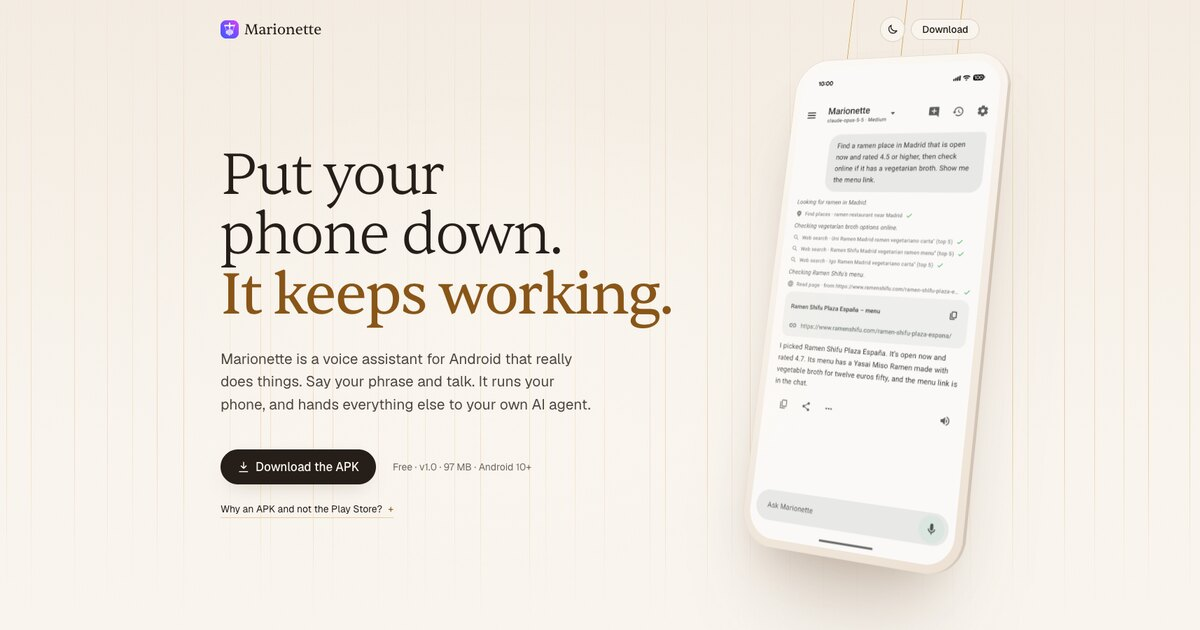
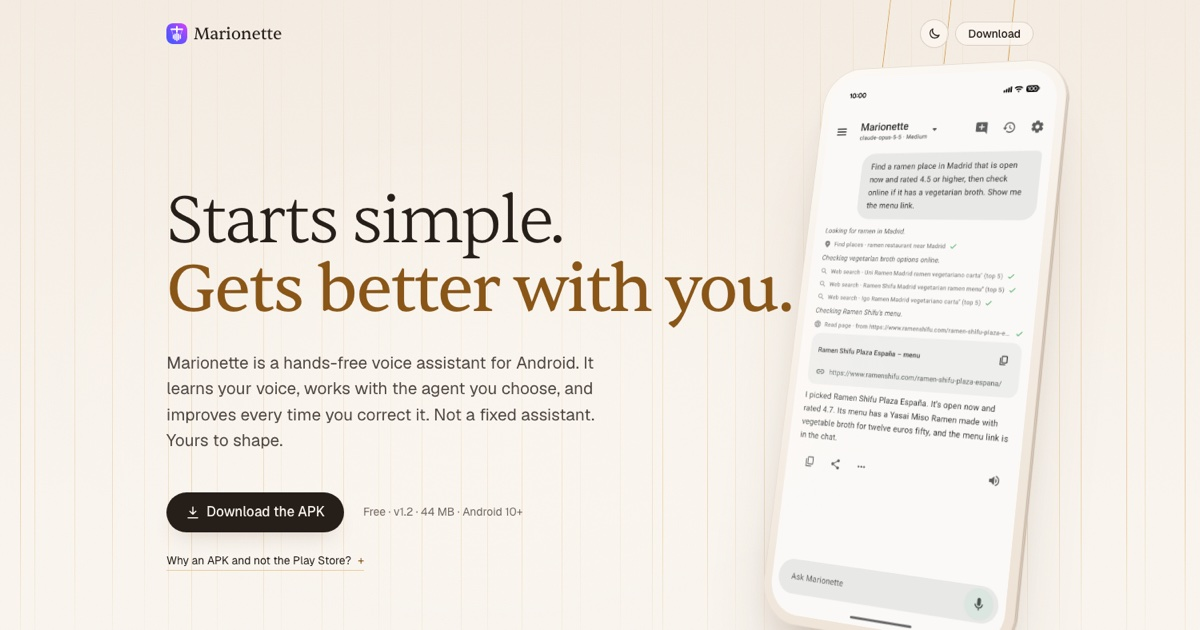
chore(release): 1.2.0

diff --git a/site/index.html b/site/index.html
@@ -4,20 +4,20 @@
 <meta charset="utf-8">
 <meta name="viewport" content="width=device-width, initial-scale=1">
 <meta name="color-scheme" content="light dark">
-<title>Marionette: a hands-free voice assistant for Android</title>
-<meta name="description" content="A free, open-source, hands-free voice assistant for Android. Say your own wake phrase and talk. It runs your phone, and hands everything else to your own AI agent or the AI model you choose.">
+<title>Marionette: the Android voice assistant that gets better with you</title>
+<meta name="description" content="A free, open-source, hands-free voice assistant for Android. It learns your voice, works with the agent you choose, and gets better as you train it. Not a fixed assistant.">
 <meta name="theme-color" content="#faf6f0">
 <link rel="canonical" href="https://marionette.ndrs.es/">
 <meta name="google-site-verification" content="xGcxIlyzYVDsrvQq4sVZuJMY3wICR12JwhaztjCRH0U">
 <meta property="og:type" content="website">
 <meta property="og:site_name" content="Marionette">
-<meta property="og:title" content="Marionette: put your phone down, it keeps working">
-<meta property="og:description" content="A hands-free Android voice assistant that runs your phone and hands everything else to your own AI agent.">
+<meta property="og:title" content="Marionette: the voice assistant that gets better with you">
+<meta property="og:description" content="A hands-free Android voice assistant. Train it with your voice, bring your own agent, and shape it over time.">
 <meta property="og:url" content="https://marionette.ndrs.es/">
 <meta property="og:image" content="https://marionette.ndrs.es/og.jpg">
 <meta property="og:image:width" content="1200">
 <meta property="og:image:height" content="630">
-<meta property="og:image:alt" content="Marionette website: Put your phone down. It keeps working. Next to a phone showing a chat with the assistant.">
+<meta property="og:image:alt" content="Marionette website: Starts simple. Gets better with you. Next to a phone showing a chat with the assistant.">
 <meta property="og:locale" content="en_US">
 <meta name="twitter:card" content="summary_large_image">
 <link rel="icon" href="icon.svg" type="image/svg+xml">
@@ -50,11 +50,11 @@
     "@context": "https://schema.org",
     "@type": "MobileApplication",
     "name": "Marionette",
-    "description": "A free, open-source, hands-free voice assistant for Android. A custom wake phrase starts it, and your own AI agent or AI model operates the phone through app tools.",
+    "description": "A free, open-source, hands-free voice assistant for Android. A wake phrase trained with your own voice starts it, and the agent or language model you choose operates the phone through device tools.",
     "url": "https://marionette.ndrs.es/",
     "applicationCategory": "UtilitiesApplication",
     "operatingSystem": "Android 10 or newer",
-    "softwareVersion": "1.1.0",
+    "softwareVersion": "1.2.0",
     "downloadUrl": "https://github.com/zlotny/marionette/releases/latest/download/marionette.apk",
     "screenshot": "https://marionette.ndrs.es/img/app-light.webp",
     "image": "https://marionette.ndrs.es/og.jpg",
@@ -98,14 +98,14 @@
 
     <div class="page">
       <div class="hero__copy">
-        <h1><span class="line enter" style="--d: 60ms">Put your phone down.</span> <b class="line enter" style="--d: 150ms">It keeps working.</b></h1>
-        <p class="hero__lede enter" style="--d: 240ms">Marionette is a voice assistant for Android that really does things. Say your phrase and talk. It runs your phone, and hands everything else to your own AI agent.</p>
+        <h1><span class="line enter" style="--d: 60ms">Starts simple.</span> <b class="line enter" style="--d: 150ms">Gets better with you.</b></h1>
+        <p class="hero__lede enter" style="--d: 240ms">Marionette is a hands-free voice assistant for Android. It learns your voice, works with the agent you choose, and improves every time you correct it. Not a fixed assistant. Yours to shape.</p>
         <div class="hero__cta enter" style="--d: 320ms">
           <a class="btn btn-fill" href="https://github.com/zlotny/marionette/releases/latest/download/marionette.apk">
             <svg viewBox="0 0 24 24" fill="none" stroke="currentColor" stroke-width="2" stroke-linecap="round" stroke-linejoin="round"><path d="M12 3v12m0 0-5-5m5 5 5-5M4 21h16"/></svg>
             Download the APK
           </a>
-          <span class="hero__note">Free · v1.1 · 97 MB · Android 10+</span>
+          <span class="hero__note">Free · v1.2 · 44 MB · Android 10+</span>
         </div>
         <details class="why enter" style="--d: 390ms">
           <summary>Why an APK and not the Play Store?</summary>
@@ -118,8 +118,8 @@
   <section class="map" aria-labelledby="map-title">
     <div class="page">
       <div class="map__head">
-        <h2 id="map-title">Your voice, your phone, <b>your agent.</b></h2>
-        <p>Most assistants stop at the edge of the phone. Marionette has two hands. The phone does what a phone can do. Your agent does the rest, on your accounts, your home and your servers.</p>
+        <h2 id="map-title">Marionette is the hands. <b>Your agent is the brain.</b></h2>
+        <p>Bring the agent you like. Marionette gives it your voice and your phone. Your agent does the thinking, and it can keep learning: new skills, your habits, your preferences.</p>
       </div>
 
       <div class="diagram">
@@ -133,30 +133,30 @@
         <div class="node node--phone">
           <span class="where">on your phone</span>
           <h3>Marionette</h3>
-          <p>Runs real Android actions. Screen off, phone in your pocket.</p>
+          <p>Real Android actions. Screen off, phone in your pocket.</p>
           <ul>
-            <li>Navigation and places, with opening hours</li>
+            <li>Calendar, timers and alarms</li>
             <li>Messages and calls, confirmed first</li>
-            <li>Notifications: read, reply, dismiss</li>
-            <li>Music in any app</li>
-            <li>Calendar, timers, alarms, contacts</li>
+            <li>Navigation and places</li>
+            <li>Music and notifications</li>
+            <li>Photos, and screen control as a last resort</li>
           </ul>
         </div>
         <span class="wire wire--back" aria-hidden="true"></span>
         <div class="node node--agent">
           <span class="where">wherever it runs</span>
           <h3>Your agent</h3>
-          <p>Connect an <a class="textlink" href="https://github.com/openclaw/openclaw">OpenClaw</a> agent and give it your voice.</p>
+          <p>A self-hosted agent such as <a class="textlink" href="https://github.com/openclaw/openclaw">OpenClaw</a>, or a model from the provider you like.</p>
           <ul>
             <li>Research, with a short spoken answer</li>
-            <li>Email and documents</li>
-            <li>Lights, heating, doors</li>
-            <li>Servers and long tasks</li>
-            <li>Anything you teach it</li>
+            <li>Email, home and servers</li>
+            <li>New skills you add over time</li>
+            <li>Remembers what you prefer</li>
+            <li>Runs on your own server</li>
           </ul>
         </div>
       </div>
-      <p class="map__legend">The gold threads are the only way out. The wake phrase is detected on the phone, and nothing is sent until you speak to it.</p>
+      <p class="map__legend">The gold threads are the only way out. The wake phrase is detected on the phone, and nothing goes out until you speak to it.</p>
     </div>
   </section>
 
@@ -176,26 +176,25 @@
 
   <section class="yours" aria-labelledby="yours-title">
     <div class="page">
-      <h2 id="yours-title">Only what you allow. <b>Only what you ask for.</b></h2>
-      <p class="yours__lede">Everything is a switch you control. Give Marionette as little or as much as you like, and change your mind at any time.</p>
+      <h2 id="yours-title">Not a fixed assistant. <b>One that grows with you.</b></h2>
+      <p class="yours__lede">Most assistants ship as they are and stay that way. Marionette starts simple and improves with each small correction you make.</p>
       <div class="yours__grid">
         <div>
-          <h3>What the phone exposes</h3>
+          <h3>It learns your voice</h3>
           <ul>
-            <li>Turn off any tool. If calls are off, it can’t call.</li>
-            <li>Grant each permission on its own: contacts, calendar, notifications, location.</li>
-            <li>Choose what needs a spoken yes before it happens.</li>
-            <li>Screen control stays off until you turn it on, and you can block apps from it.</li>
-            <li>Choose what context it shares, like location or what’s playing.</li>
+            <li>Train your wake phrase with your own voice, close up and across the room.</li>
+            <li>A false wake? Mark it with one tap so it stops happening.</li>
+            <li>Read a short text in your normal voice. It learns what is not the wake phrase.</li>
+            <li>Review what woke it, and keep it sharp.</li>
           </ul>
         </div>
         <div>
-          <h3>What your agent does</h3>
+          <h3>Your agent learns too</h3>
           <ul>
-            <li>Your agent runs where you put it, with the tools you give it.</li>
-            <li>Connect your email, your home, your servers, or none of them.</li>
+            <li>Bring the agent you like, and change it whenever you want.</li>
+            <li>A self-hosted agent learns new skills and remembers your preferences, on your own server.</li>
             <li>Pick the model and how hard it thinks, per chat.</li>
-            <li>With a plain AI model, edit its instructions in plain words.</li>
+            <li>With a plain model, edit its instructions in plain words.</li>
           </ul>
         </div>
       </div>
@@ -206,16 +205,17 @@
     <div class="page">
       <h2 id="setup-title">A few minutes to set up. <b>Then just talk.</b></h2>
       <ol class="steps">
-        <li><span class="n">1</span><h3>Install the app</h3><p>From GitHub. No store, no account, no server to run.</p></li>
-        <li><span class="n">2</span><h3>Choose its brain</h3><p>Connect your OpenClaw agent, or paste a key for any AI model. The setup checks that it works before you leave.</p></li>
-        <li><span class="n">3</span><h3>Teach it your phrase</h3><p>Any words, any language. Say it a few times.</p></li>
+        <li><span class="n">1</span><h3>Install the app</h3><p>From GitHub. No store, no account, no Marionette server.</p></li>
+        <li><span class="n">2</span><h3>Bring your agent</h3><p>Connect your OpenClaw agent, or paste a key for the model you like. The setup checks that it works before you leave.</p></li>
+        <li><span class="n">3</span><h3>Teach it your voice</h3><p>Any words, any language. Say your phrase a few times. It gets better from there.</p></li>
       </ol>
 
       <div class="trust">
-        <h3>Yours, and only yours.</h3>
+        <h3>Open. Private. Yours.</h3>
         <div>
-          <p>Marionette talks directly to the model you choose. There is no middleman and no subscription. Your keys stay encrypted on your phone.</p>
-          <p>The code is public domain under the <a class="textlink" href="https://github.com/zlotny/marionette/blob/main/LICENSE">Unlicense</a>. Read it, fork it, ship it.</p>
+          <p>The wake phrase runs on your phone. Marionette talks directly to the agent you choose, with no middleman and no subscription. Your keys stay encrypted on your phone.</p>
+          <p>Every tool, permission and confirmation is a switch. Screen control stays off until you turn it on.</p>
+          <p>The code is public domain under the <a class="textlink" href="https://github.com/zlotny/marionette/blob/main/LICENSE">Unlicense</a>. Read it, fork it, change it.</p>
           <p class="providers">Works with OpenClaw, Anthropic, OpenAI, Google Gemini, OpenRouter, and any OpenAI-compatible API.</p>
         </div>
       </div>
@@ -226,7 +226,7 @@
 <footer class="close" id="download">
   <div class="strands" aria-hidden="true"></div>
   <div class="page">
-    <h2>Less screen.<br><b>More day.</b></h2>
+    <h2>Your assistant.<br><b>Your way.</b></h2>
     <div class="close__cta">
       <a class="btn btn-fill" href="https://github.com/zlotny/marionette/releases/latest/download/marionette.apk">
         <svg viewBox="0 0 24 24" fill="none" stroke="currentColor" stroke-width="2" stroke-linecap="round" stroke-linejoin="round"><path d="M12 3v12m0 0-5-5m5 5 5-5M4 21h16"/></svg>
@@ -235,7 +235,7 @@
       <a class="btn btn-line" href="https://github.com/zlotny/marionette">Source on GitHub</a>
     </div>
     <div class="close__foot">
-      <span>Marionette 1.1.0 · Public domain</span>
+      <span>Marionette 1.2.0 · Public domain</span>
       <nav class="close__links" aria-label="Project">
         <a class="textlink" href="https://github.com/zlotny/marionette/releases">Releases</a>
         <a class="textlink" href="https://github.com/zlotny/marionette">Source</a>

diff --git a/README.md b/README.md
@@ -3,8 +3,8 @@
 <h1 align="center">Marionette</h1>
 
 <p align="center">
-  An open-source, hands-free voice assistant for Android.<br>
-  Say your own wake phrase and talk. It runs your phone, and hands everything else to your own AI agent.
+  <b>Starts simple. Gets better with you.</b><br>
+  A hands-free voice assistant for Android that learns your voice, works with the agent you choose, and improves every time you correct it.
 </p>
 
 <p align="center">
@@ -20,16 +20,28 @@
   </picture>
 </p>
 
-## Features
+Most assistants ship as they are and stay that way. Marionette is not a fixed assistant. It starts simple and evolves with you.
 
-- **Your own wake phrase.** Any words, any language. Detection runs on the phone. Stop phrases cancel a running turn.
-- **Hands-free.** It works with the screen off and the phone in your pocket. It speaks its progress while it works.
-- **Phone tools.** Navigation and places (with ratings and opening hours), messages and calls (confirmed first), notifications (read, reply, dismiss), music in any app, calendar, timers, alarms, contacts, apps, links, device settings, and screen control.
-- **Your agent or any model.** Connect an [OpenClaw](https://github.com/openclaw/openclaw) agent for email, home automation, servers and research. Or use a plain AI model with a key.
-- **You stay in control.** Each tool, permission and confirmation is a switch. Screen control is off by default.
-- **Per-chat model and thinking level.** The picker shows price and measured speed per model.
-- **Phone or cloud speech.** Android on-device recognition and voice by default. OpenAI or OpenRouter speech models are optional.
-- **English and Spanish** interface.
+## It learns your voice
+
+- **Your own wake phrase.** Any words, any language, trained with your voice, close up and across the room.
+- **One tap on a false wake.** Mark it, and it stops happening.
+- **It knows your normal voice.** Read a short text, and it learns what is not the wake phrase.
+- **Review what woke it.** Keep it sharp over time.
+
+## Your agent is the brain
+
+Marionette is the hands. Your agent is the brain.
+
+- **Bring the agent you like.** A self-hosted [OpenClaw](https://github.com/openclaw/openclaw) agent, or a model from OpenAI, Anthropic, Google Gemini or OpenRouter. Change it any time.
+- **It grows with you.** A self-hosted agent learns new skills and remembers your preferences, on your own server.
+- **Your phone, by voice.** Calendar, messages, calls, navigation, music, notifications, timers, photos, and screen control as a last resort. Screen off, phone in your pocket.
+
+## Open, private, yours
+
+- **Private by design.** The wake phrase runs on the phone. No account, no analytics, no subscription, no Marionette server.
+- **You stay in control.** Every tool, permission and confirmation is a switch. Screen control is off by default.
+- **Open source.** Public domain. Read it, fork it, change it.
 
 ## Things you can say
 
@@ -39,25 +51,17 @@
 - "Put on something calm and set a timer for pasta."
 - "Is the home server still up? Restart it if not." (with an agent)
 
-## Backends
-
-| Backend | You need |
-| --- | --- |
-| OpenClaw (recommended) | Gateway address and token or password. Optional device pairing for live progress. |
-| Anthropic, OpenAI, Google Gemini, OpenRouter | An API key. |
-| Any OpenAI-compatible API (Ollama, LM Studio, vLLM) | Base URL, and a key if the server needs one. The model must support tool calls. |
-
-The app talks to the backend directly. There is no Marionette server.
-
 ## Install
 
 1. Download [`marionette.apk`](https://github.com/zlotny/marionette/releases/latest/download/marionette.apk).
 2. Allow installs from your browser, then open the file.
-3. Follow the setup: backend, permissions, language, wake phrase.
+3. Follow the setup: agent, permissions, language, wake phrase.
 
-Requirements: Android 10 or newer, 64-bit ARM (arm64-v8a).
+Requirements: Android 10 or newer, 64-bit ARM (arm64-v8a). English and Spanish interface.
 
 Updates: add `https://github.com/zlotny/marionette` to [Obtainium](https://github.com/ImranR98/Obtainium), or download each new release.
+
+### Verify the APK
 
 Verify the APK signature with `apksigner verify --print-certs marionette.apk`. The SHA-256 certificate digest is:
 
@@ -69,7 +73,17 @@ BD:3E:13:37:C9:68:F6:72:81:87:78:55:23:88:1E:68:19:F0:0F:16:98:B2:A7:04:F8:22:BE
 
 Marionette sends text messages, sees your installed apps, operates other apps through accessibility, and uses location in the background. Google Play restricts all of these. The APK keeps them, and you choose which ones to switch on.
 
-## Privacy
+## Supported agents
+
+| Backend | You need |
+| --- | --- |
+| OpenClaw (recommended) | Gateway address and token or password. Optional device pairing for live progress. |
+| Anthropic, OpenAI, Google Gemini, OpenRouter | An API key. |
+| Any OpenAI-compatible API (Ollama, LM Studio, vLLM) | Base URL, and a key if the server needs one. The model must support tool calls. |
+
+The app talks to your agent directly. There is no Marionette server.
+
+## Privacy details
 
 - Wake phrase detection runs on the phone. No audio leaves the phone until you say the phrase, and none at all with on-device recognition.
 - Requests go from the phone to the backend you choose. No account, no analytics, no subscription.
